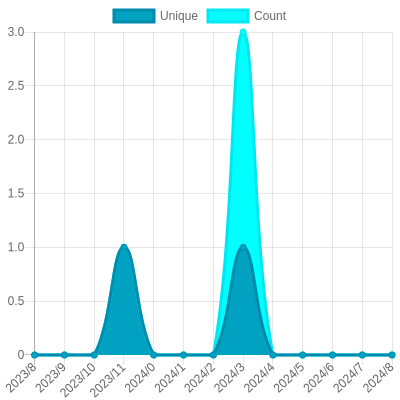
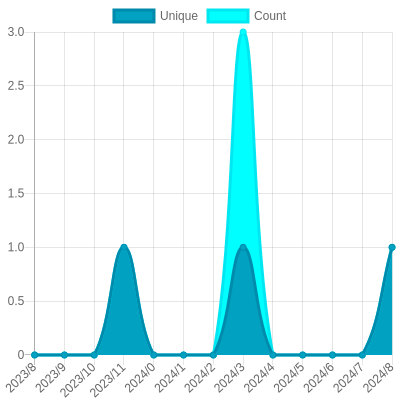
Update views

Changed region(s): [[0.9, 0.6, 0.99, 0.9]]

diff --git a/readme/431592046/year.md b/readme/431592046/year.md
@@ -23,10 +23,10 @@
 			<code>2023/9/1</code>
 		</td>
 		<td>
-			<code>0</code>
+			<code>1</code>
 		</td>
 		<td>
-			<code>0</code>
+			<code>1</code>
 		</td>
 	</tr>
 	<tr>
@@ -164,7 +164,7 @@
 </table>
 
 </details>
-<small><i>Last updated on 2023/9/25 6:08 AM UTC</i></small>
+<small><i>Last updated on 2023/9/25 12:11 PM UTC</i></small>
 
 ## ✂Copy and 📋 Paste
 ### SVG Badge

diff --git a/README.md b/README.md
@@ -53,7 +53,7 @@ The project created and maintained by [gayanvoice](https://github.com/gayanvoice
 	</tr>
 </table>
 
-<small><i>Last updated on 2023/9/25 6:08 AM UTC</i></small>
+<small><i>Last updated on 2023/9/25 12:11 PM UTC</i></small>
 
 ## ✂Copy and 📋 Paste
 ### Total Views Badge

diff --git a/readme/431478118/year.md b/readme/431478118/year.md
@@ -164,7 +164,7 @@
 </table>
 
 </details>
-<small><i>Last updated on 2023/9/25 6:08 AM UTC</i></small>
+<small><i>Last updated on 2023/9/25 12:10 PM UTC</i></small>
 
 ## ✂Copy and 📋 Paste
 ### SVG Badge
